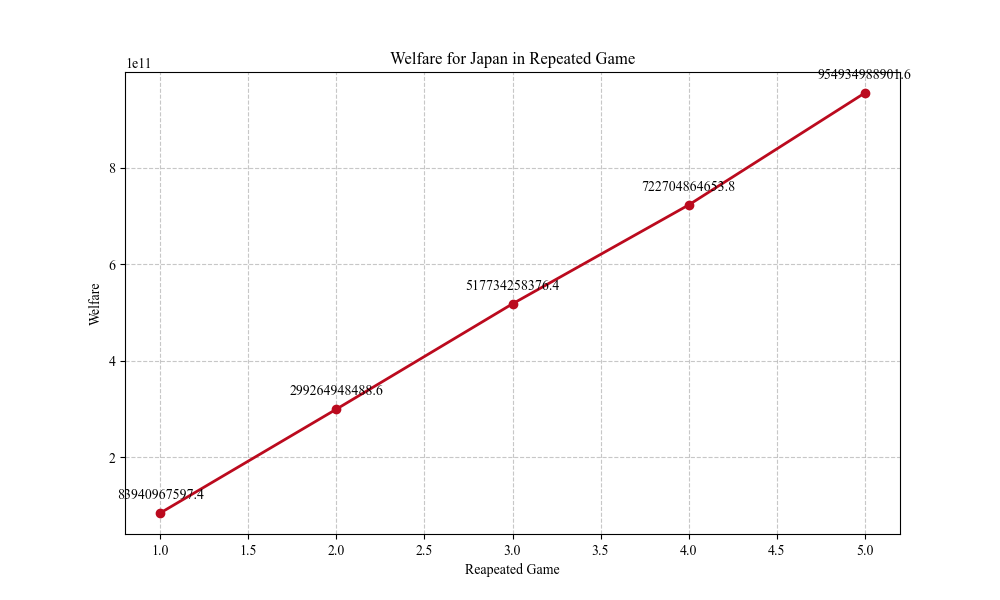
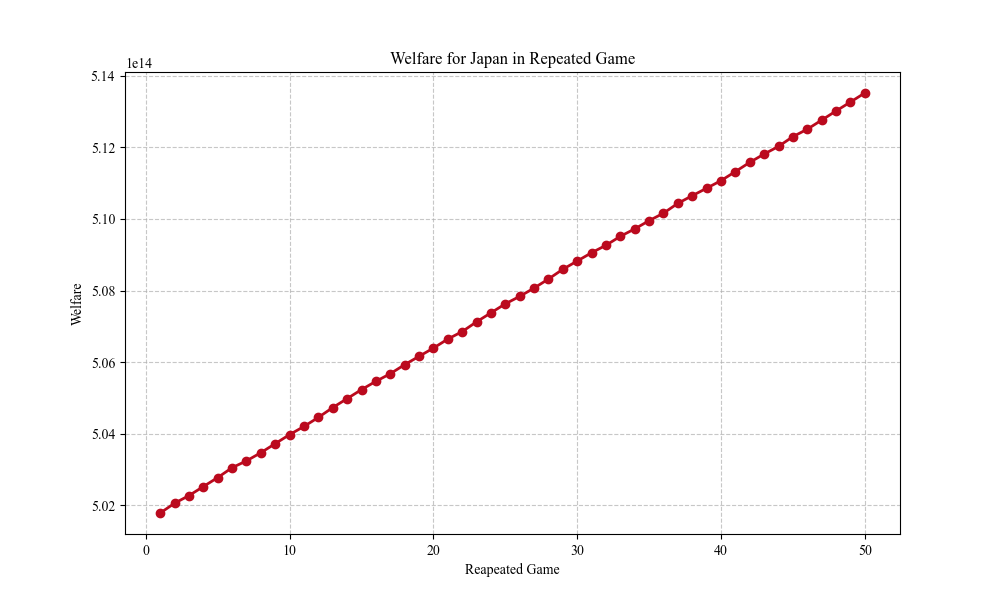
0809 final codes

diff --git a/welfare/update dynamically.py b/welfare/update dynamically.py
@@ -21,18 +21,16 @@ from matplotlib import rcParams
 rcParams['font.family'] = 'serif'
 rcParams['font.serif'] = ['Times New Roman'] + rcParams['font.serif']
 
-var.fill_gamma()
-var.fill_pi()
+# var.fill_gamma()
+# var.fill_pi()
 factual_pi = var.pi.copy() #factual var.pi 보존
 
-var.fill_alpha()
+# var.fill_alpha()
 def update_economic_variables(tau, j):
     # Update t based on the new tau values
     for i in tau.keys():
             if i==j: continue
             for industry in var.industries:
-                    # print("print t for", i, j, industry, ":", var.t[i][j][industry])
-                    # print("print tau for", i, j, industry, ":",tau[i][j][industry])
                     var.t[i][j][industry] = max(tau[i][j][industry] - 100, 1e-10)
 
     # Recalculate gamma, pi, and alpha based on the updated t values
@@ -47,7 +45,7 @@ def update_economic_variables(tau, j):
                 for industry in var.industries:
                     change_rate = (var.tau[i][j][industry] - previous_tau[i][j][industry]) / previous_tau[i][j][industry] if previous_tau[i][j][industry] != 0 else 0
                     var.p_ijs[i][j][industry] *= (1 + change_rate)
-                    var.T[i][j][industry] *= (1 + change_rate * var.de[industry])
+                    var.T[i][j][industry] *= (1 - change_rate * var.de[industry])
 def calc_x(j, s):
     sum = 0
     TR = 0
@@ -70,8 +68,6 @@ def gov_obj(tau, j):
     total = 0
     for s in var.industries:
         total += var.pol_econ[j][s] * calc_welfare(j, s)
-
-    #print("total (gov_obj) for",j, iter ,":",total)
 
     return -total  # We minimize, so we return the negative
 
@@ -202,10 +198,9 @@ def welfare_change():
         term2 = 0
         term3 = 0
         
-        for i in var.countries:  # i국 (수출국)
+        for i in var.countries:
             if i != j:
-                for s in var.industries:  # s산업
-                    #print(f'{j}{cal_x_j(j)}')
+                for s in var.industries: 
                     term1 += (var.T[i][j][s] / x_j_list[j]) * (changerate_p_js[j][s] - changerate_p_js[i][s])
                     term3 += (var.t[i][j][s] * var.T[i][j][s] / x_j_list[j]) * (changerate_T[i][j][s]-changerate_p_is[i][s])
         
@@ -236,44 +231,6 @@ def update_hats(tau, t, pi): #갱신된 값이 인자로 들어감
     for j in var.countries:
         for s in var.industries:
             var.pi_hat[j][s] = abs(var.pi[j][s] / factual_pi[j][s])
-
-
-# def calculate_optimum_tariffs():
-#     global tau, t, tariff_matrices
-
-#     # Initialize dictionaries for storing results
-#     optimal_taus = {i: {j: {industry: var.tau[i][j][industry] for industry in var.industries} for j in var.countries if j != i} for i in var.countries}
-#     gov_obj_values = {i: {j: {industry: 0 for industry in var.industries} for j in var.countries if j != i} for i in var.countries}
-
-#     # Flatten the tau structure to create an initial guess for the optimizer
-#     initial_tau = flatten_dict(optimal_taus)
-
-#     # Define the global objective function that operates on the entire tau structure
-#     def global_gov_obj(flat_tau):
-#         total_obj = 0
-#         unflattened_tau = unflatten_dict(flat_tau)  # This reconstructs the tau structure
-#         update_economic_variables(unflattened_tau)  # Update t, T, pi, etc. based on the new tau
-        
-#         for importer in var.countries:
-#             total_obj += gov_obj(unflattened_tau, importer)
-#         return total_obj
-
-#     # Generate global constraints for all countries and industries
-#     global_constraints = global_constraints_generator(initial_tau)
-
-#     # Perform global minimization across all countries and industries
-#     result = minimize(global_gov_obj, initial_tau) #constraints=global_constraints
-    
-#     # Map the results back into the optimal_taus structure
-#     unflattened_result_tau = unflatten_dict(result.x)
-#     for i in var.countries:
-#         for j in var.countries:
-#             if i != j:
-#                 for industry in var.industries:
-#                     optimal_taus[i][j][industry] = unflattened_result_tau[i][j][industry]
-#                     gov_obj_values[i][j][industry] = -result.fun
-    
-#     return optimal_taus, gov_obj_values
 
 
 def calculate_p_js(p_ijs):
@@ -323,9 +280,16 @@ def optimize_for_importer(j):
     result = minimize(
         importer_gov_obj,          # Local objective function
         initial_tau,               # Initial guess for tau
-        #constraints=global_constraints_generator(initial_tau)  # Constraints
+        method='L-BFGS-B',         # Optimization method
+        tol=1e-12,                 # Tolerance for termination (set very small to ensure high precision)
+        options={
+            'disp': True,         # Display convergence messages
+            'maxiter': 10000,     # Maximum number of iterations (set high if necessary)
+            'ftol': 1e-12,        # Precision goal for the value of the function being optimized
+            'gtol': 1e-12,        # Precision goal for the gradient of the function being optimized
+        }
     )
-    
+
     # Map the results back to the original tau structure
     optimized_tau = unflatten_dict(result.x, j)
     optimized_g = -result.fun
@@ -338,7 +302,8 @@ def optimize_for_importer(j):
 
 tariff_history = {i: {j: {industry: [] for industry in var.industries} for j in var.countries if j != i} for i in var.countries}
 welfare_history = {j: [] for j in var.countries} 
-iteration = 5
+
+iteration = 50
 # Perform 100 iterations
 for iter in range(iteration):
     print(f"Iteration {iter + 1}")
@@ -357,7 +322,7 @@ for iter in range(iteration):
             if i != j:
                 for s in var.industries:
                     var.tau[i][j][s] = optimized_tau[i][j][s]
-                    tariff_history[i][j][s].append(optimized_tau[i][j][s]) 
+                    tariff_history[i][j][s].append(max(optimized_tau[i][j][s], 1e-10)) 
     
     print(f"tariff history after {iter+1} optimization: ", tariff_history)
     print(f"welfare history after {iter+1} optimization: ", welfare_history)
@@ -389,10 +354,8 @@ for iter in range(iteration):
     changerate_p_is = {i: {industry: (p_is[i][industry] - temp_p_is[i][industry])/ temp_p_is[i][industry] for industry in var.industries} for i in var.countries}
     changerate_p_js = {j: {industry: (p_js[j][industry] - temp_p_js[j][industry])/temp_p_js[j][industry] for industry in var.industries} for j in var.countries}
     changerate_T = {i: {j: {industry: (var.T[i][j][industry] - temp_T[i][j][industry])/temp_T[i][j][industry] for industry in var.industries} for j in var.countries if i != j} for i in var.countries}
-
-    # Call welfare_change with updated delta values
+        # Call welfare_change with updated delta values
     print("welfare change effect of iteration", (iter+1), welfare_change())
-    
     print("\nCorresponding t values:")
     for i in var.countries:
         print(f"\nt values for {i} as the home country:")
@@ -406,7 +369,6 @@ for iter in range(iteration):
         df_tau = pd.DataFrame({j: {s: var.tau[i][j][s] for s in var.industries} for j in var.countries if j != i})
         print(df_tau)
 
-iter_list = list(range(1,iteration+1))
 iter_list = list(range(1, iteration + 1))
 for exporter in var.countries:
     for importer in var.countries:
@@ -414,27 +376,52 @@ for exporter in var.countries:
             for industry in var.industries:
                 tariffs = tariff_history[exporter][importer][industry]
 
-                # Calculate the logarithm of the tariff values to highlight small changes
-                log_tariffs = np.log(tariffs)
+                # Calculate the differences between consecutive tariffs
+                tariff_diffs = np.diff(tariffs)
+
+                # Optional: amplify the differences
+                amplified_diffs = tariff_diffs * 1e6
 
                 plt.figure(figsize=(10, 6))
-                plt.plot(iter_list, log_tariffs, marker='o', color='#bb0a1e', linewidth=2)
-                plt.ylim([np.min(log_tariffs) - 0.1, np.max(log_tariffs) + 0.1])
-
-                for i, txt in enumerate(log_tariffs):
-                    if i == 0 or txt != log_tariffs[i - 1]:  # 첫 포인트이거나, 앞의 값과 다를 때만 표시
-                        plt.annotate(f'{np.exp(txt):.2f}', (iter_list[i], txt), textcoords="offset points", xytext=(0, 10), ha='center')
-
-                plt.title(f'Logarithm of Tariff for "{industry}" from {exporter} to {importer} in Repeated Game')
+                plt.plot(iter_list[1:], amplified_diffs, marker='o', color='#bb0a1e', linewidth=2)
+                
+                # Optional: set the y-limits manually to zoom in
+                plt.ylim([np.min(amplified_diffs) - 0.01, np.max(amplified_diffs) + 0.01])
+                
+                plt.title(f'Change in Tariff for "{industry}" from {exporter} to {importer} in Repeated Game')
                 plt.xlabel('Iteration')
-                plt.ylabel('Log(Tariff)')
+                plt.ylabel('Amplified Change in Tariff')
                 plt.grid(True)
 
                 # Save the plot
-                file_name = f"{output_dir}/log_tariff_{industry}_{exporter}_to_{importer}.png"
+                file_name = f"{output_dir}/change_tariff_{industry}_{exporter}_to_{importer}.png"
                 plt.savefig(file_name)
                 plt.close()
 
+for exporter in var.countries:
+    for importer in var.countries:
+        if exporter != importer:
+            for industry in var.industries:
+                tariffs = tariff_history[exporter][importer][industry]
+
+                # Calculate the percentage change between consecutive tariffs
+                tariff_changes = np.diff(tariffs) / tariffs[:-1] * 100
+
+                plt.figure(figsize=(10, 6))
+                plt.plot(iter_list[1:], tariff_changes, marker='o', color='#bb0a1e', linewidth=2)
+
+                # Optional: set the y-limits manually to zoom in
+                plt.ylim([np.min(tariff_changes) - 0.01, np.max(tariff_changes) + 0.01])
+
+                plt.title(f'Change Rate in Tariff for "{industry}" from {exporter} to {importer} in Repeated Game')
+                plt.xlabel('Iteration')
+                plt.ylabel('Change Rate in Tariff (%)')
+                plt.grid(True)
+
+                # Save the plot
+                file_name = f"{output_dir}/change_rate_tariff_{industry}_{exporter}_to_{importer}.png"
+                plt.savefig(file_name)
+                plt.close()
 
 for importer in var.countries:
     welfares = welfare_history[importer]
@@ -445,9 +432,9 @@ for importer in var.countries:
     plt.grid(True, linestyle='--', alpha=0.7)
 
 
-    for i, txt in enumerate(welfares):
-        if i == 0 or txt != welfares[i-1]:  # 첫 포인트이거나, 앞의 값과 다를 때만 표시
-            plt.annotate(f'{txt:.1f}', (iter_list[i], welfares[i]), textcoords="offset points", xytext=(0,10), ha='center')
+    # for i, txt in enumerate(welfares):
+    #     if i == 0 or txt != welfares[i-1]:  # 첫 포인트이거나, 앞의 값과 다를 때만 표시
+    #         plt.annotate(f'{txt:.1f}', (iter_list[i], welfares[i]), textcoords="offset points", xytext=(0,10), ha='center')
 
     plt.title(f'Welfare for {importer} in Repeated Game')
     plt.xlabel('Reapeated Game')
@@ -458,3 +445,29 @@ for importer in var.countries:
     file_name = f"{output_dir}/welfare_{importer}.png"
     plt.savefig(file_name)
     plt.close()
+
+for importer in var.countries:
+    welfares = welfare_history[importer]
+
+    # Calculate the percentage changes between consecutive welfare values
+    percentage_changes = [(welfares[i] - welfares[i-1]) / welfares[i-1] * 100 for i in range(1, len(welfares))]
+
+    plt.figure(figsize=(10, 6))
+    plt.plot(iter_list[1:], percentage_changes, marker='o', color='#bb0a1e', linewidth=2)
+    plt.grid(True, linestyle='--', alpha=0.7)
+
+    # Annotate the plot with the percentage change values
+    for i, txt in enumerate(percentage_changes):
+        plt.annotate(f'{txt:.2f}%', (iter_list[i+1], percentage_changes[i]), textcoords="offset points", xytext=(0,10), ha='center')
+
+    plt.title(f'Welfare Change Rate for {importer} in Repeated Game')
+    plt.xlabel('Iteration')
+    plt.ylabel('Percentage Change in Welfare')
+    plt.grid(True)
+    
+    # Save the plot
+    file_name = f"{output_dir}/welfare_change_rate_{importer}.png"
+    plt.savefig(file_name)
+    plt.close()
+
+#%%

diff --git a/var.py b/var.py
@@ -197,17 +197,17 @@ L_j = {'Korea':29.5, 'USA':171, 'China':780, 'Japan':69.3, 'Germany':44.4} #mill
 #demand elasticity
 de = {'steel':0.5, 'semi':0.5, 'car':1.5}
 
-gamma_denom = {j: {industry: 0 for industry in industries} for j in countries}
+gamma_denom = {j: {industry: 1e-5 for industry in industries} for j in countries}
 
 def fill_gamma_denom():
     for j in countries:
         for s in industries:
-            # gamma_denom[j][s] = 0
+            gamma_denom[j][s] = 0
             for m in countries:
                 if m != j:
                     gamma_denom[j][s] += tau[m][j][s] * T[m][j][s]
+                    
                 
-
 def fill_gamma():
     fill_gamma_denom()
     for i in countries:
@@ -225,33 +225,43 @@ fill_gamma()
 # print("gamma_denom: ")
 # print(gamma_denom)
 # print("\n")
-
+pi = {country: {industry: 0 for industry in industries} for country in countries}
 def fill_pi():
     for j in countries:
         for s in industries:
+            pi[j][s]=0
             for i in countries:
                 if i != j:
                     pi_value = 1 / sigma[s] * T[i][j][s]
                     pi[j][s] += max(pi_value, epsilon)
+                    #print(f"pi[{j}][{s}] after fill = {pi[j][s]}")
 fill_pi()
 factual_pi = pi.copy() #factual pi 보존
 
-alpha_denom = {j: {industry: 0 for industry in industries} for j in countries}
+# Reset alpha and alpha_denom before filling them
+alpha = {i: {j: {industry: 0 for industry in industries} for j in countries if i != j} for i in countries}
+alpha_denom = {i: {industry: 0 for industry in industries} for i in countries}
 
 def fill_alpha_denom():
+    # Reset alpha_denom at the start
     for i in countries:
         for s in industries:
+            alpha_denom[i][s] = 0
             for n in countries:
                 if i != n:
-                    alpha_denom[i][s] += T[i][n][s]            
+                    alpha_denom[i][s] += T[i][n][s]  # Accumulate trade volumes
 
 def fill_alpha():
-    fill_alpha_denom()
+    fill_alpha_denom()  # Ensure alpha_denom is correctly filled before using it
+    # Reset alpha at the start
     for i in countries:
         for j in countries:
             if i == j:
                 continue  # Skip the case where i == j
             for s in industries:
+                if alpha_denom[i][s] == 0:
+                    print(f"Warning: alpha_denom[{i}][{s}] is zero, skipping division.")
+                    continue  # Skip this iteration if the denominator is zero
                 alpha_value = T[i][j][s] / alpha_denom[i][s]
                 alpha[i][j][s] = max(alpha_value, epsilon)  # Ensure no zero values
 
